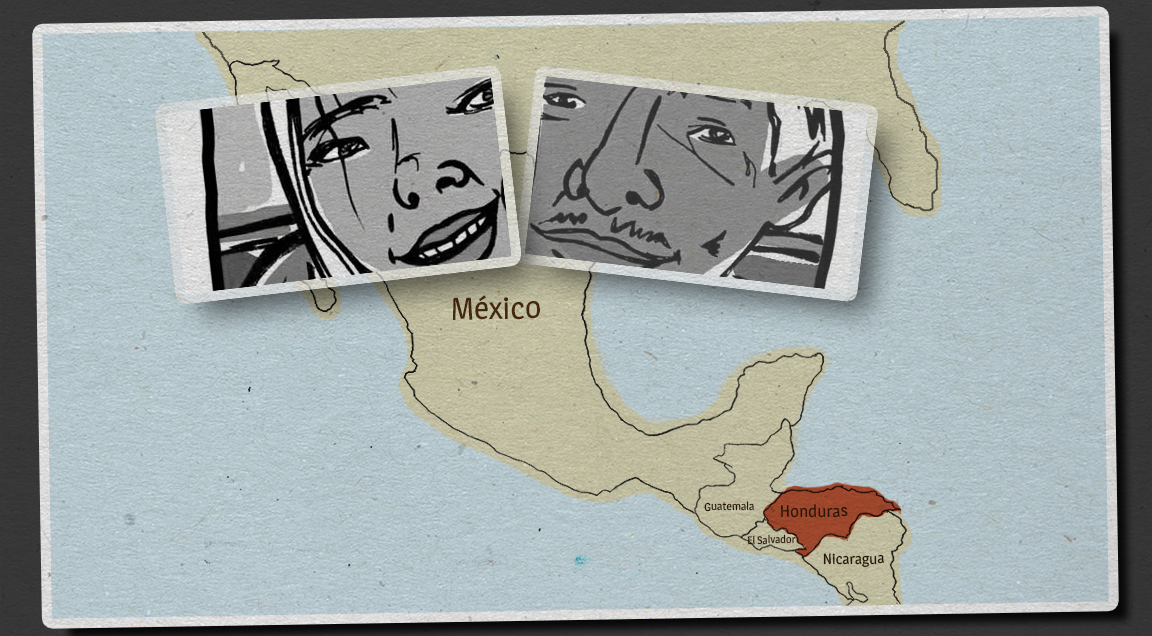
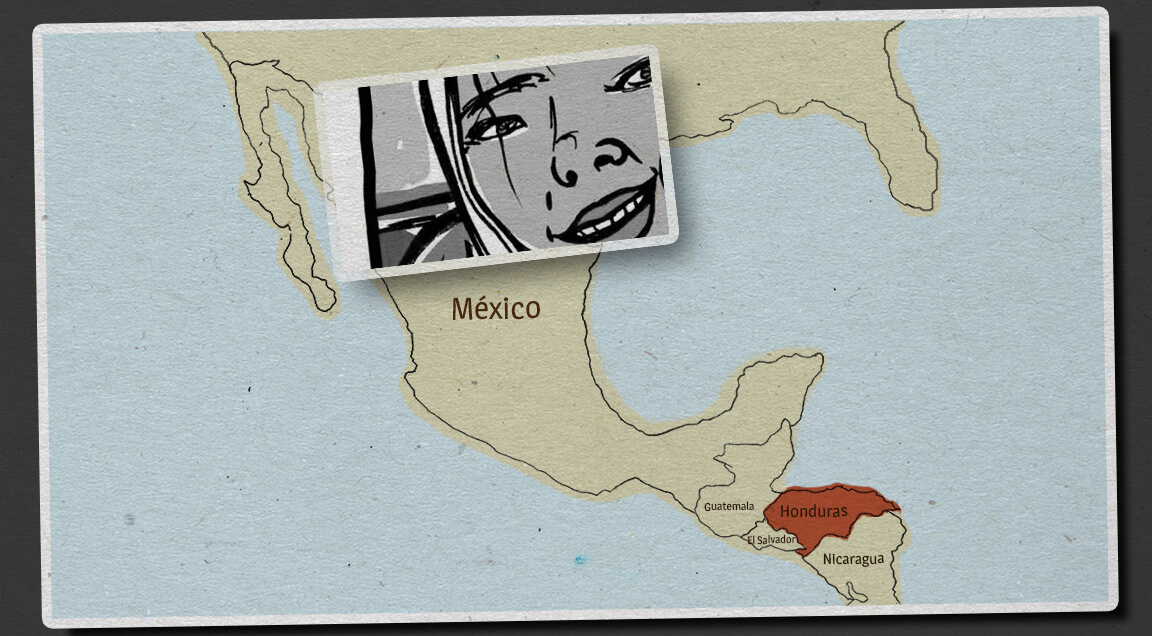
Ajustes capitulo 1

Changed region(s): [[0.125, 0.0597, 0.7812, 0.5079]]

diff --git a/assets/js/functions.js b/assets/js/functions.js
@@ -7,14 +7,14 @@
  */
 
 // Setup total images per chapter per scena
-	var totalimg_capitulo01_scena_1 = 4; var totalimg_capitulo01_scena_2 = 6; var totalimg_capitulo01_scena_3 = 2; var totalimg_capitulo01_scena_4 = 4; var totalimg_capitulo01_scena_5 = 3; var totalimg_capitulo01_scena_6 = 2;
+	var totalimg_capitulo01_scena_1 = 4; var totalimg_capitulo01_scena_2 = 10; var totalimg_capitulo01_scena_3 = 2; var totalimg_capitulo01_scena_4 = 4; var totalimg_capitulo01_scena_5 = 3; var totalimg_capitulo01_scena_6 = 2;
 	var totalimg_capitulo02_scena_1 = 3; var totalimg_capitulo02_scena_2 = 2; var totalimg_capitulo02_scena_3 = 5; var totalimg_capitulo02_scena_4 = 4;
 	var totalimg_capitulo03_scena_1 = 7; var totalimg_capitulo03_scena_2 = 3; var totalimg_capitulo03_scena_3 = 5; var totalimg_capitulo03_scena_4 = 4;
 	var totalimg_capitulo04_scena_1 = 6; var totalimg_capitulo04_scena_2 = 2; var totalimg_capitulo04_scena_3 = 7; var totalimg_capitulo04_scena_4 = 4;var totalimg_capitulo04_scena_5 = 7;var totalimg_capitulo04_scena_6 = 1;
 	
 	//setup time when the image is displayed
-	var timeimg_capitulo01_scena_1 = [8, 19, 25, 27]; 
-	var timeimg_capitulo01_scena_2 = [8, 15, 27, 38, 48, 57];
+	var timeimg_capitulo01_scena_1 = [10, 16, 25, 27]; 
+	var timeimg_capitulo01_scena_2 = [8, 14, 17, 18, 27, 43, 45, 47, 50, 57];
 	var timeimg_capitulo01_scena_3 = [9, 10];
 	var timeimg_capitulo01_scena_4 = [9, 19, 32, 44];
 	var timeimg_capitulo01_scena_5 = [5, 7, 15];

diff --git a/index.html b/index.html
@@ -157,6 +157,10 @@
 						<img src="images/capitulo01/escena-2/buscando-el-norte-capitulo01-escena-2-4.jpg" id="imgbg-capitulo01-scena-2-4" style="display: none;">
 						<img src="images/capitulo01/escena-2/buscando-el-norte-capitulo01-escena-2-5.jpg" id="imgbg-capitulo01-scena-2-5" style="display: none;">
 						<img src="images/capitulo01/escena-2/buscando-el-norte-capitulo01-escena-2-6.jpg" id="imgbg-capitulo01-scena-2-6" style="display: none;">
+                        <img src="images/capitulo01/escena-2/buscando-el-norte-capitulo01-escena-2-7.jpg" id="imgbg-capitulo01-scena-2-7" style="display: none;">
+                        <img src="images/capitulo01/escena-2/buscando-el-norte-capitulo01-escena-2-8.jpg" id="imgbg-capitulo01-scena-2-8" style="display: none;">
+                        <img src="images/capitulo01/escena-2/buscando-el-norte-capitulo01-escena-2-9.jpg" id="imgbg-capitulo01-scena-2-9" style="display: none;">
+                        <img src="images/capitulo01/escena-2/buscando-el-norte-capitulo01-escena-2-10.jpg" id="imgbg-capitulo01-scena-2-10" style="display: none;">
 						
 						<img src="images/capitulo01/escena-3/buscando-el-norte-capitulo01-escena-3-1.jpg" id="imgbg-capitulo01-scena-3-1" style="display: none;">
                         <img src="images/capitulo01/escena-3/buscando-el-norte-capitulo01-escena-3-2.jpg" id="imgbg-capitulo01-scena-3-2" style="display: none;">
